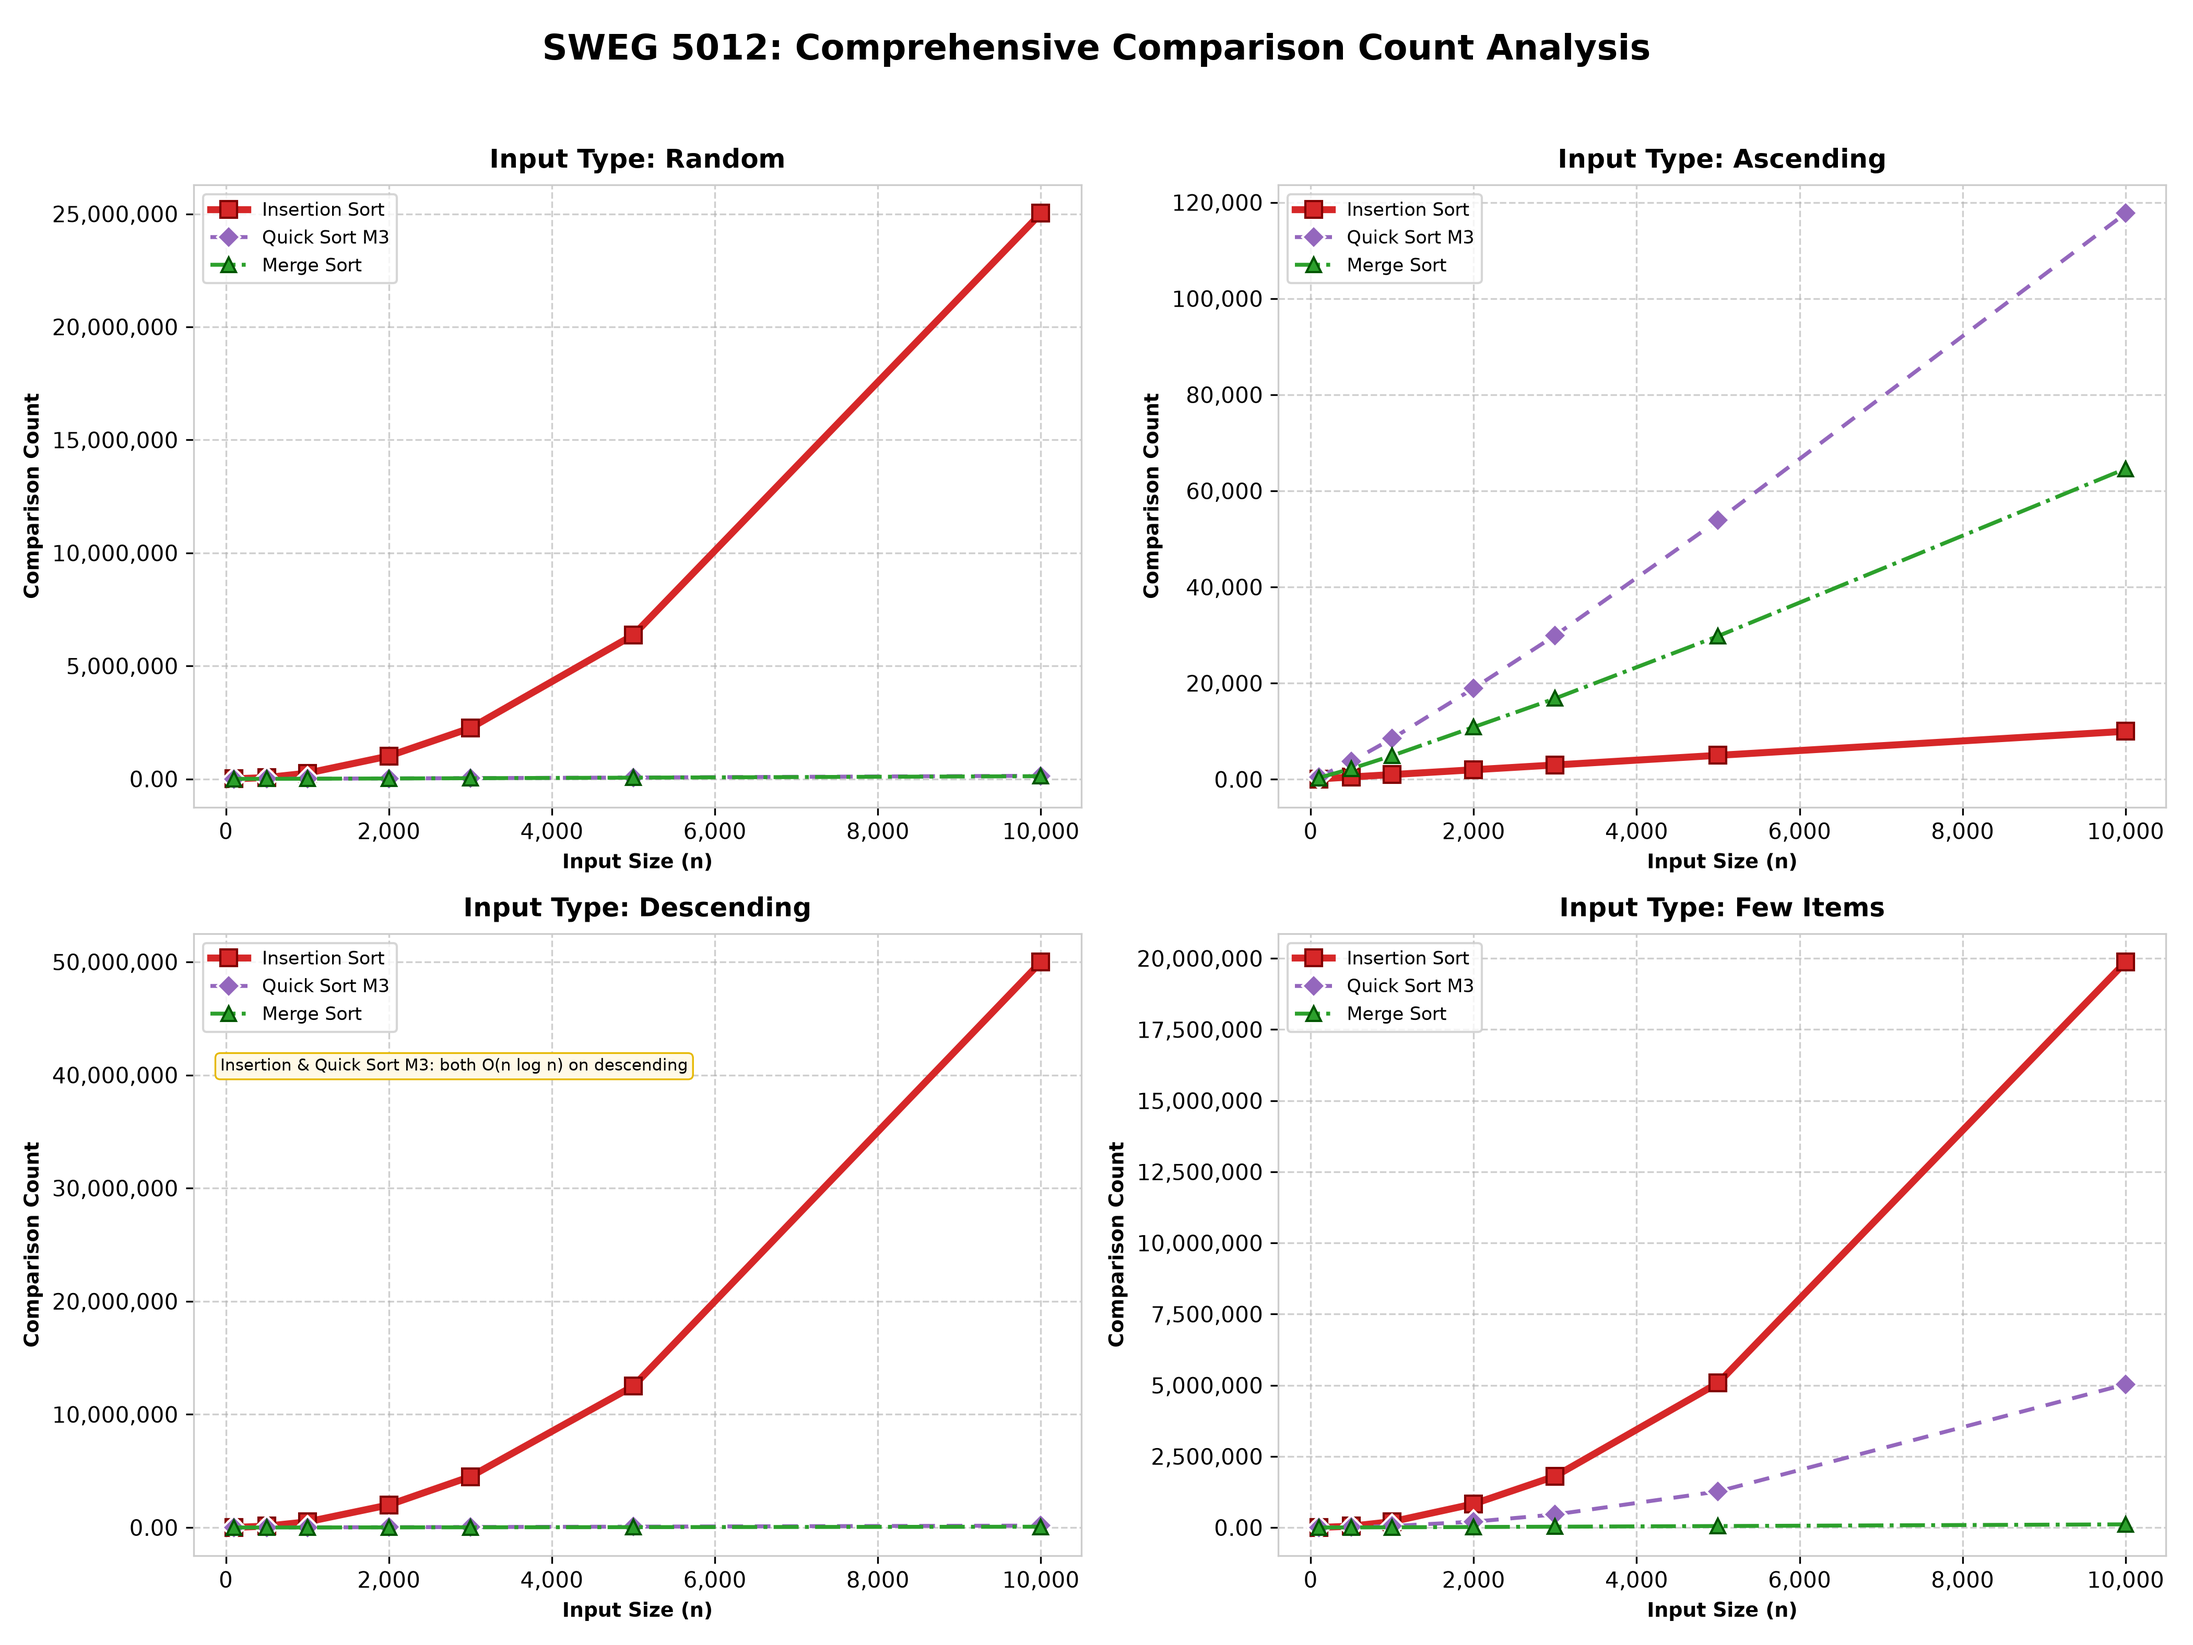
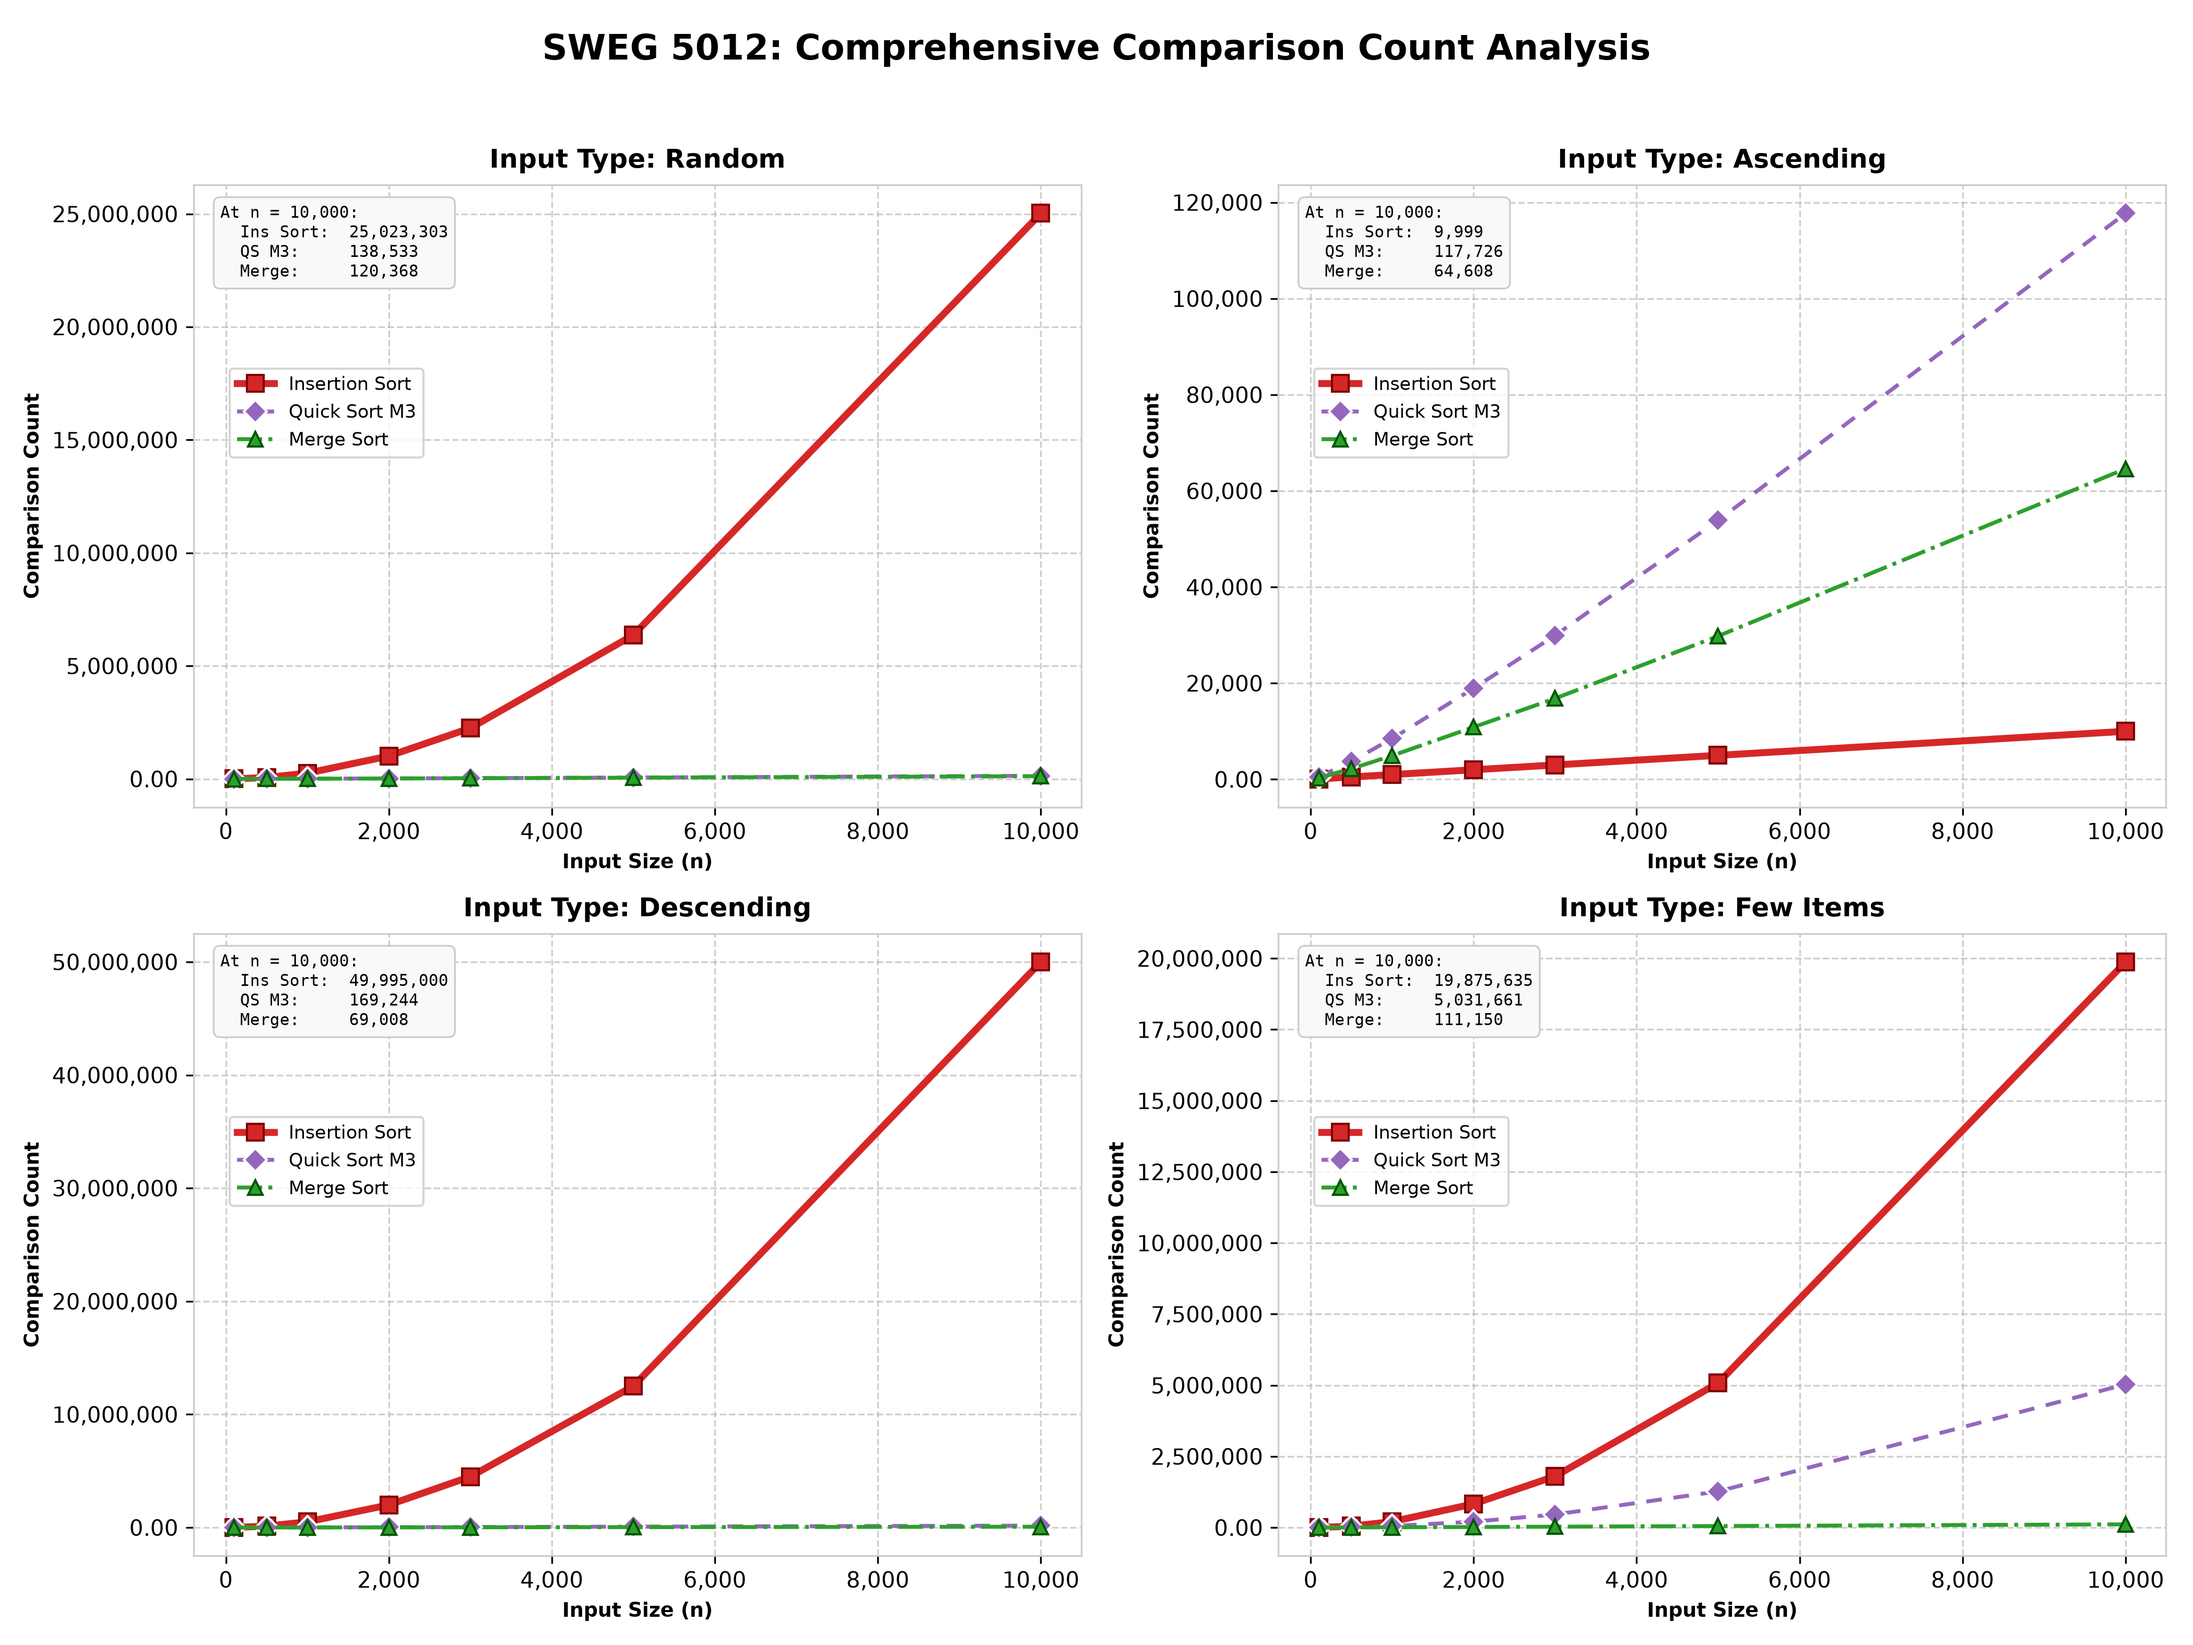
fix: add n=10000 callout boxes to dashboards, remove O(n log n) annotation

diff --git a/generate_plots.py b/generate_plots.py
@@ -292,16 +292,37 @@ def plot_dashboard(df: pd.DataFrame, metric: str, output_path: str):
         ax.xaxis.set_major_formatter(ticker.FuncFormatter(lambda x, p: f"{int(x):,}"))
         ax.yaxis.set_major_formatter(ticker.FuncFormatter(lambda y, p: f"{int(y):,}" if y >= 1 else f"{y:.2f}"))
 
-        if itype == "Descending" and metric == "Comparisons":
-            ax.annotate(
-                "Insertion & Quick Sort M3: both O(n log n) on descending",
-                xy=(0.03, 0.78),
-                xycoords="axes fraction",
-                fontsize=7.5,
-                bbox=dict(boxstyle="round,pad=0.3", fc="#fff9e6", ec="#e6b800", lw=0.8),
+        # Summary callout box at n = 10,000
+        ins_10k = ins[ins["Size (n)"] == 10000][metric].values[0]
+        qs_10k  = qs[qs["Size (n)"] == 10000][metric].values[0]
+        ms_10k  = ms[ms["Size (n)"] == 10000][metric].values[0]
+
+        if metric == "Time (ms)":
+            box_text = (
+                f"At n = 10,000:\n"
+                f"  Ins Sort:  {ins_10k:,.1f} ms\n"
+                f"  QS M3:     {qs_10k:,.1f} ms\n"
+                f"  Merge:     {ms_10k:,.1f} ms"
+            )
+        else:
+            box_text = (
+                f"At n = 10,000:\n"
+                f"  Ins Sort:  {int(ins_10k):,}\n"
+                f"  QS M3:     {int(qs_10k):,}\n"
+                f"  Merge:     {int(ms_10k):,}"
             )
 
-        ax.legend(loc="upper left", frameon=True, fontsize=8.5)
+        ax.text(
+            0.03, 0.97,
+            box_text,
+            transform=ax.transAxes,
+            fontsize=7.5,
+            family="monospace",
+            verticalalignment="top",
+            bbox=dict(boxstyle="round,pad=0.4", fc="#f8f9fa", ec="#cccccc", lw=0.8),
+        )
+
+        ax.legend(loc="upper left", frameon=True, fontsize=8.5, bbox_to_anchor=(0.03, 0.72))
 
     plt.tight_layout(rect=[0, 0, 1, 0.96])
     plt.savefig(output_path)
